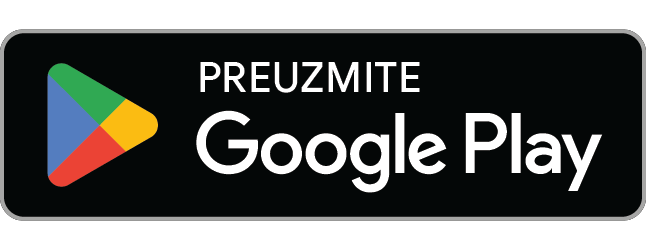
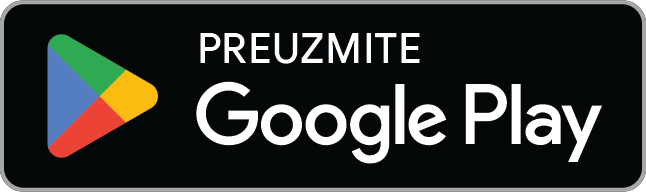
Cijene kao u pilotu (Bukoteka 9 €/mj. ili 90 €/god., Online 15 €/mj. ili 150 €/god.), oznake trgovina iste visine, blagdani bez „hrvatski” (5 država)

diff --git a/index.html b/index.html
@@ -25,7 +25,7 @@
   Bez vanjskih skripti, trackera, kolačića i fontova s tuđih poslužitelja. Font Bricolage Grotesque je uz stranicu (/fonts, OFL).
   Slike u /img/app su odobrene snimke za trgovine (D-54), izmišljeni „Salon Primjer”.
   Oznake trgovina: službene (Apple, Google). Poveznice se uključuju kad aplikacija bude javno u trgovini.
-  Rezervirano mjesto: [CIJENA — čeka potvrdu].
+  Cijene (Ivan 23. 11. 2026., kao u pilotu): Bukoteka 9 €/mj. ili 90 €/god., Bukoteka Online 15 €/mj. ili 150 €/god.
   Obrazac se šalje preko mailto:advisory@veloracare.io (otvara korisnikov program za e-poštu); nema vanjskog servisa za obrasce.
 -->
 <style>
@@ -97,8 +97,7 @@ h2 .dot{color:var(--accent-strong)}
 .cta{display:flex;flex-wrap:wrap;gap:10px}
 .stores{display:flex;flex-wrap:wrap;align-items:center;gap:12px;margin-top:22px}
 .stores .badge{display:inline-flex;align-items:center}
-.stores .badge img{display:block;height:44px;width:auto}
-.stores .badge.gp img{height:64px;margin:-10px -9px}
+.stores .badge img{display:block;height:46px;width:auto}
 .stores .soon{font-size:13px;color:var(--muted);width:100%;margin:0;display:flex;align-items:center;gap:8px}
 .stores .soon:before{content:'';flex:none;width:8px;height:8px;border-radius:50%;background:#e0a94a;animation:pulse 2s infinite}
 @keyframes pulse{0%{box-shadow:0 0 0 0 #e0a94a80}70%{box-shadow:0 0 0 8px #e0a94a00}100%{box-shadow:0 0 0 0 #e0a94a00}}
@@ -194,7 +193,11 @@ section.tight{padding-top:0}
 .offer ul{margin:16px 0 0;padding:0;list-style:none;display:grid;gap:8px}
 .offer li{display:flex;gap:10px;font-size:15px}
 .offer li:before{content:'';flex:none;width:8px;height:8px;border-radius:50%;background:var(--accent-strong);margin-top:9px}
-.price{font-weight:600;font-size:18px;margin:20px 0 0}
+.price{margin:auto 0 0;padding-top:20px;display:flex;flex-wrap:wrap;align-items:baseline;gap:4px 8px}
+.price b{font-size:40px;font-weight:600;letter-spacing:-.04em;line-height:1}
+.price .per{color:var(--muted);font-size:15px}
+.price small{width:100%;color:var(--muted);font-size:14px}
+[lang=en] .price .hr,html:not([lang=en]) .price .en{display:none}
 .placeholder{background:#fff4d6;color:#8a5a00;border-radius:6px;padding:1px 6px;font-size:14px;font-weight:600}
 
 /* proba */
@@ -355,12 +358,12 @@ footer a{color:var(--muted)}
 
 <div class="ticker" aria-hidden="true">
   <ul class="hr">
-    <li>30 dana besplatno</li><li>Bez kartice</li><li>Hrvatski blagdani već upisani</li><li>Online rezervacije</li><li>Više djelatnika</li><li>Hrvatski i engleski</li><li>Mobitel, tablet i računalo</li><li>Bez oglasa</li>
-    <li>30 dana besplatno</li><li>Bez kartice</li><li>Hrvatski blagdani već upisani</li><li>Online rezervacije</li><li>Više djelatnika</li><li>Hrvatski i engleski</li><li>Mobitel, tablet i računalo</li><li>Bez oglasa</li>
+    <li>30 dana besplatno</li><li>Bez kartice</li><li>Blagdani već upisani</li><li>Online rezervacije</li><li>Više djelatnika</li><li>Hrvatski i engleski</li><li>Mobitel, tablet i računalo</li><li>Bez oglasa</li>
+    <li>30 dana besplatno</li><li>Bez kartice</li><li>Blagdani već upisani</li><li>Online rezervacije</li><li>Više djelatnika</li><li>Hrvatski i engleski</li><li>Mobitel, tablet i računalo</li><li>Bez oglasa</li>
   </ul>
   <ul class="en">
-    <li>30 days free</li><li>No card</li><li>Croatian holidays built in</li><li>Online booking</li><li>Several staff members</li><li>Croatian and English</li><li>Phone, tablet and computer</li><li>No ads</li>
-    <li>30 days free</li><li>No card</li><li>Croatian holidays built in</li><li>Online booking</li><li>Several staff members</li><li>Croatian and English</li><li>Phone, tablet and computer</li><li>No ads</li>
+    <li>30 days free</li><li>No card</li><li>Public holidays built in</li><li>Online booking</li><li>Several staff members</li><li>Croatian and English</li><li>Phone, tablet and computer</li><li>No ads</li>
+    <li>30 days free</li><li>No card</li><li>Public holidays built in</li><li>Online booking</li><li>Several staff members</li><li>Croatian and English</li><li>Phone, tablet and computer</li><li>No ads</li>
   </ul>
 </div>
 
@@ -377,8 +380,8 @@ footer a{color:var(--muted)}
       <div class="text reveal">
         <div class="ic"><svg viewBox="0 0 24 24" fill="none" stroke="currentColor" stroke-width="2" stroke-linecap="round" aria-hidden="true"><rect x="3" y="5" width="18" height="16" rx="3"/><path d="M3 10h18M8 3v4m8-4v4"/></svg></div>
         <h3 class="hr">Raspored</h3><h3 class="en">Schedule</h3>
-        <p class="hr">Usluge i trajanja, radno vrijeme, dnevni odmori, slobodni dani i hrvatski blagdani na jednom mjestu.</p>
-        <p class="en">Services and durations, opening hours, daily breaks, days off and Croatian public holidays in one place.</p>
+        <p class="hr">Usluge i trajanja, radno vrijeme, dnevni odmori, slobodni dani i državni blagdani na jednom mjestu.</p>
+        <p class="en">Services and durations, opening hours, daily breaks, days off and public holidays in one place.</p>
         <ul class="pills hr"><li>dnevni pregled</li><li>dva tjedna na dlanu</li><li>blagdani već upisani</li></ul>
         <ul class="pills en"><li>day view</li><li>two weeks at a glance</li><li>holidays built in</li></ul>
       </div>
@@ -478,7 +481,7 @@ footer a{color:var(--muted)}
         <p class="en">For businesses that book by phone or message. After the call, add the appointment in a few taps.</p>
         <ul class="hr"><li>raspored, usluge, radno vrijeme i odmori</li><li>klijenti i brzi upis</li><li>hrvatski i engleski</li></ul>
         <ul class="en"><li>schedule, services, hours and breaks</li><li>clients and quick entry</li><li>Croatian and English</li></ul>
-        <p class="price"><span class="placeholder">[CIJENA — čeka potvrdu]</span></p>
+        <p class="price"><b>9 €</b> <span class="per hr">mjesečno</span><span class="per en">per month</span><small class="hr">ili 90 € godišnje (2 mjeseca gratis)</small><small class="en">or €90 per year (2 months free)</small></p>
       </div>
       <div class="card offer hl reveal d1">
         <span class="tag">Bukoteka Online</span>
@@ -487,11 +490,11 @@ footer a{color:var(--muted)}
         <p class="en">Everything in Bukoteka, plus a booking link you can share on social media or your Google Business Profile.</p>
         <ul class="hr"><li>klijent ne treba račun</li><li>ti određuješ pravila promjene i otkazivanja</li><li>online rezervacije uključuješ i isključuješ u Postavkama</li></ul>
         <ul class="en"><li>clients don't need an account</li><li>you set the change and cancellation rules</li><li>turn online booking on or off in Settings</li></ul>
-        <p class="price"><span class="placeholder">[CIJENA — čeka potvrdu]</span></p>
+        <p class="price"><b>15 €</b> <span class="per hr">mjesečno</span><span class="per en">per month</span><small class="hr">ili 150 € godišnje (2 mjeseca gratis)</small><small class="en">or €150 per year (2 months free)</small></p>
       </div>
     </div>
-    <p class="note hr">Cijene još nisu konačne i bit će objavljene nakon potvrde.</p>
-    <p class="note en">Prices are not final yet and will be published once confirmed.</p>
+    <p class="note hr">Cijene su konačne: Velora nije u sustavu PDV-a. Prvih 30 dana besplatno, bez kartice.</p>
+    <p class="note en">Prices are final: Velora is not registered for VAT. The first 30 days are free, no card needed.</p>
   </div>
 </section>
 
